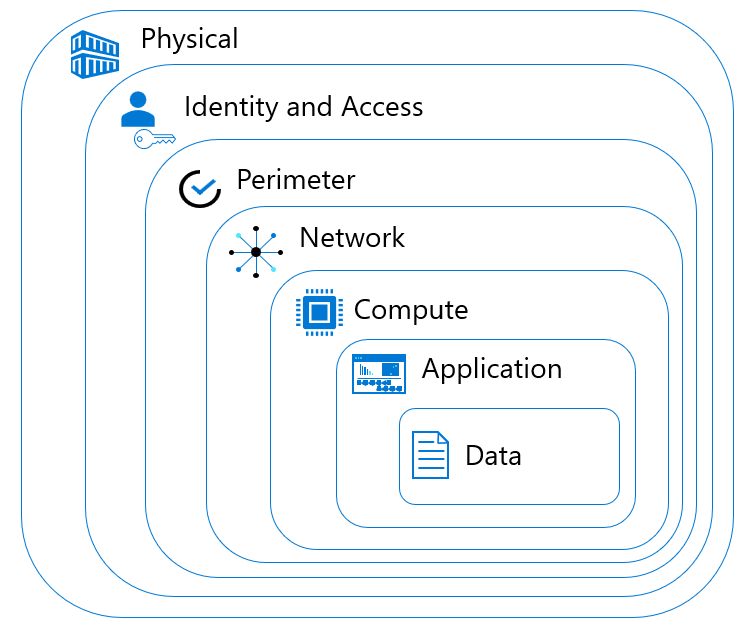
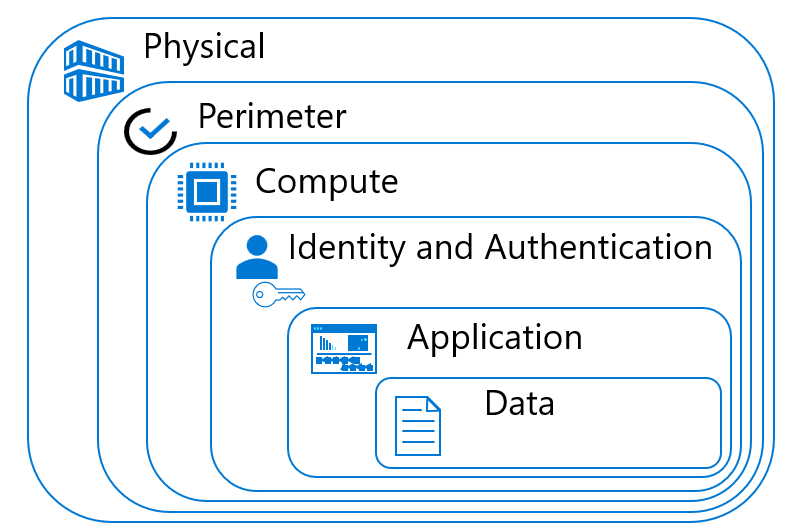
Graphics and new DiD Layout explanation

diff --git a/SQLSecurity/01 - SecurityLandscape.md b/SQLSecurity/01 - SecurityLandscape.md
@@ -48,13 +48,12 @@ One of the oldest security paradigms is *Defense in Depth*. You check and secure
 <br>
 <img style="height: 150; box-shadow: 0 4px 8px 0 rgba(0, 0, 0, 0.2), 0 6px 20px 0 rgba(0, 0, 0, 0.19);" src="../graphics/1-1.png">
 
-**Physical security**: This ring involves restricting and [controlling access to your datacenter and computing assets](https://docs.microsoft.com/en-us/windows-server/identity/ad-ds/plan/security-best-practices/securing-domain-controllers-against-attack) to only allow authorized personnel.
-**Identity and access security controls**: At this level you will use [multifactor authentication](https://docs.microsoft.com/en-us/azure/active-directory/authentication/concept-mfa-howitworks) and other conditional access systems for infrastructure, code, and change tracking systems.
-**Perimeter security**:  This level entails creating defenses at the network level for [distributed denial of service (DDoS)](https://docs.microsoft.com/en-us/azure/ddos-protection/types-of-attacks) attacks.
-**Network security** At this level you will use [network access controls](https://docs.microsoft.com/en-us/azure/azure-sql/database/network-access-controls-overview?view=azuresql), [Network Security Groups](https://docs.microsoft.com/en-us/azure/virtual-network/network-security-groups-overview), and other network segmentation strategies to limit communication between systems, avoiding spoofing, man-in-the-middle attacks, and other network-related issues.
-**Compute layer security**: This level requires creating a [strong system](https://techcommunity.microsoft.com/t5/itops-talk-blog/introduction-to-secured-core-computing/ba-p/2701672) for controlloing access to physical and virtual machines, and implementing strong Cloud Controls.
-**Application layer security**: For this level, you will implement [Secure Code](https://docs.microsoft.com/en-us/dotnet/standard/security/secure-coding-guidelines) practices and policies to prevent security vulnerabilities. This is an ogoing process.
-**Data layer security**: This level ensures that business and customer data is encrypted and protected against unwanted access at rest, in=-transit, in-memory and in-code processes. This is the focus of this course.
+- **Physical**: This ring involves restricting and [controlling access to your datacenter and computing assets](https://docs.microsoft.com/en-us/windows-server/identity/ad-ds/plan/security-best-practices/securing-domain-controllers-against-attack) to only allow authorized personnel.
+- **Perimeter**:  This level entails creating defenses at the network level for [distributed denial of service (DDoS)](https://docs.microsoft.com/en-us/azure/ddos-protection/types-of-attacks) attacks, and you will use [network access controls](https://docs.microsoft.com/en-us/azure/azure-sql/database/network-access-controls-overview?view=azuresql), [Network Security Groups](https://docs.microsoft.com/en-us/azure/virtual-network/network-security-groups-overview), and other network segmentation strategies to limit communication between systems, avoiding spoofing, man-in-the-middle attacks, and other network-related issues.
+- **Compute**: This level requires creating a [strong system](https://techcommunity.microsoft.com/t5/itops-talk-blog/introduction-to-secured-core-computing/ba-p/2701672) for controlloing access to physical and virtual machines, and implementing strong Cloud Controls.
+- **Identity and Authorization**: At this level you will use [multifactor authentication](https://docs.microsoft.com/en-us/azure/active-directory/authentication/concept-mfa-howitworks) and other conditional access systems for infrastructure, code, and change tracking systems.
+- **Application**: For this level, you will implement [Secure Code](https://docs.microsoft.com/en-us/dotnet/standard/security/secure-coding-guidelines) practices and policies to prevent security vulnerabilities.
+- **Data**: This level ensures that business and customer data is encrypted and protected against unwanted access at rest, in=-transit, in-memory and in-code processes. This is the focus of this course.
 
 <h4>1.1.2 Zero Trust</h4> 
 
